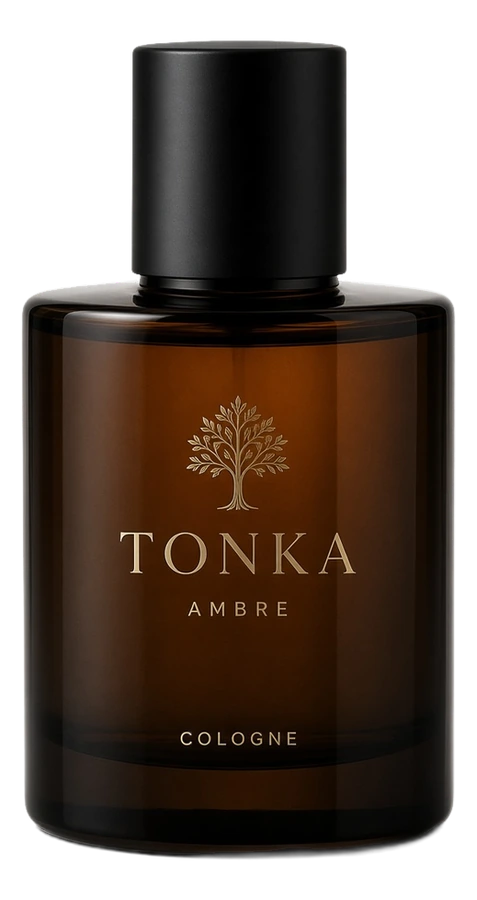
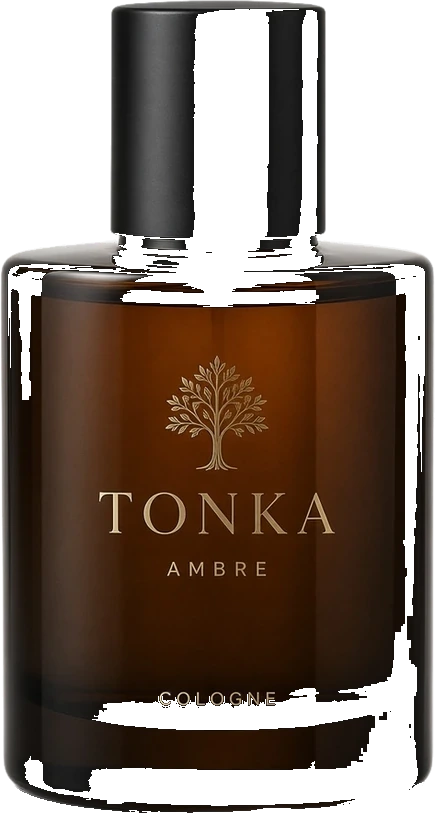
Fix Grooming fragrance tiles and sample product art.
Match studio plates to sample cream, swap Tonka off Tobacco Vanille, rename Beard oil and Fragrance and finish, and stop amber extras from using night tone.

diff --git a/src/lib/media.ts b/src/lib/media.ts
@@ -47,7 +47,7 @@ export function usePieceSrc(item: {
   return src;
 }
 
-const v = "v54";
+const v = "v55";
 
 export const SAMPLE_IMAGES: Record<string, string> = {
   g_navy_coat: `/sample/cut/navy-coat.webp?${v}`,
@@ -103,7 +103,7 @@ export const SAMPLE_IMAGES: Record<string, string> = {
   g_rain_shell: `/sample/cut/rain-shell.webp?${v}`,
   e_bergamot: `/sample/cut/colonia.webp?${v}`,
   e_vetiver: `/sample/cut/vetiver.webp?${v}`,
-  e_tonka: `/sample/cut/tobacco-vanille.webp?${v}`,
+  e_tonka: `/sample/cut/tonka-ambre.webp?${v}`,
   e_cleanser: `/sample/cut/cerave-cleanser.webp?${v}`,
   e_vitc: `/sample/cut/skinceuticals-ce.webp?${v}`,
   e_moist: `/sample/cut/lrp-moist.webp?${v}`,

diff --git a/src/styles.css b/src/styles.css
@@ -276,17 +276,15 @@ html[data-theme="dark"] {
     box-sizing: border-box;
   }
 
+  /* Match baked sample plate #f7f2e8 so opaque product photos don't read as boxes. */
   .groom-tile .outfit-studio {
-    background: #f3eee6;
+    background: #f7f2e8;
   }
 
   .groom-tile[data-tone="day"] .outfit-studio,
-  .groom-tile[data-tone="night"] .outfit-studio {
-    background: #f3eee6;
-  }
-
+  .groom-tile[data-tone="night"] .outfit-studio,
   .groom-tile[data-tone="core"] .outfit-studio {
-    background: #ebe4d6;
+    background: #f7f2e8;
   }
 
   .groom-tile .outfit-studio img,

diff --git a/src/routes/grooming.tsx b/src/routes/grooming.tsx
@@ -162,13 +162,14 @@ function GroomingPage() {
       {bottles.length ? (
         <section>
           <h2 className="font-display text-3xl leading-none text-fg italic">
-            Bottles
+            Fragrance & finish
           </h2>
           <div className="groom-grid mt-3">
             {bottles.map((e, i) => (
               <ExtraCard
                 key={`bot-${e.id}`}
                 extra={e}
+                tone="core"
                 eager={i < 4}
                 onClick={() => openEdit(e)}
               />

diff --git a/src/lib/seed.ts b/src/lib/seed.ts
@@ -696,7 +696,7 @@ export function createSampleCloset(): {
     {
       id: "e_tonka",
       name: "Tonka and smoke",
-      brand: "Tom Ford",
+      brand: "Tonka Ambre",
       kind: "fragrance",
       notes: "Evening weight. Coat weather.",
       climate: ["cool", "cold"],
@@ -718,7 +718,7 @@ export function createSampleCloset(): {
     },
     {
       id: "e_balm",
-      name: "Beard balm",
+      name: "Beard oil",
       brand: "Le Labo",
       kind: "grooming",
       notes: "Sandalwood. Keep it neat, not glossy.",

diff --git a/src/components/piece-card.tsx b/src/components/piece-card.tsx
@@ -51,13 +51,7 @@ export function ExtraCard({
       ? extra.slot === "pm"
         ? "night"
         : "day"
-      : extra.kind === "fragrance" &&
-          (extra.family === "amber" ||
-            /evening|smoke|tonka/i.test(`${extra.name} ${extra.notes}`))
-        ? "night"
-        : extra.kind === "fragrance" && extra.family === "citrus"
-          ? "day"
-          : "core");
+      : "core");
   const body = (
     <>
       <div className="outfit-studio relative aspect-square w-full shrink-0 overflow-hidden">

diff --git a/src/lib/store.ts b/src/lib/store.ts
@@ -128,8 +128,12 @@ function normalizeGarment(g: Garment): Garment {
 
 function normalizeExtra(e: Extra): Extra {
   const sample = createSampleCloset().extras.find((x) => x.id === e.id);
+  const catalog = sample && SAMPLE_IMAGES[e.id]
+    ? { name: sample.name, brand: sample.brand }
+    : null;
   return bindPhotoFields({
     ...e,
+    ...catalog,
     tags: Array.isArray(e.tags) ? e.tags : [],
     slot: e.slot ?? sample?.slot,
     step: e.step ?? sample?.step,
